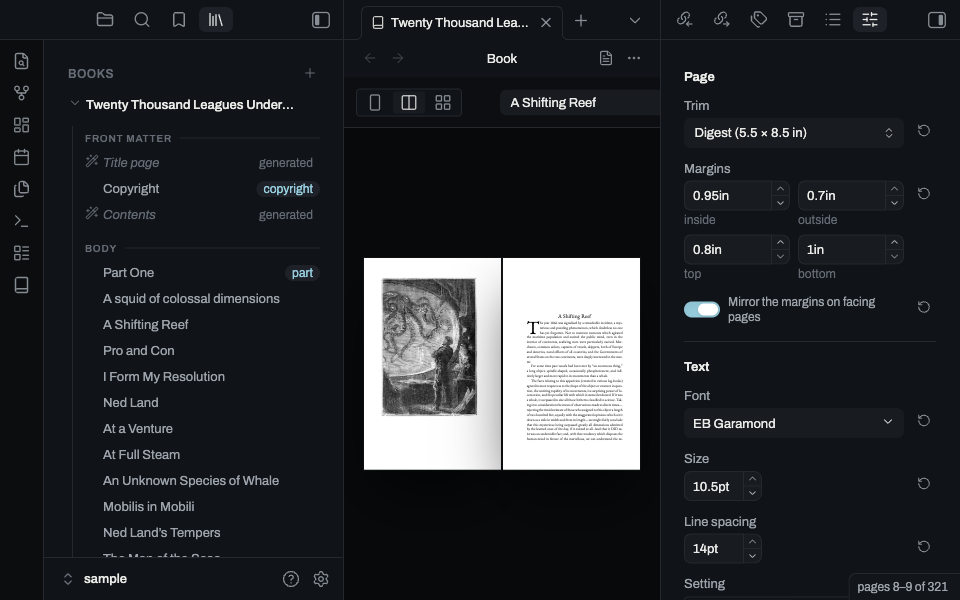
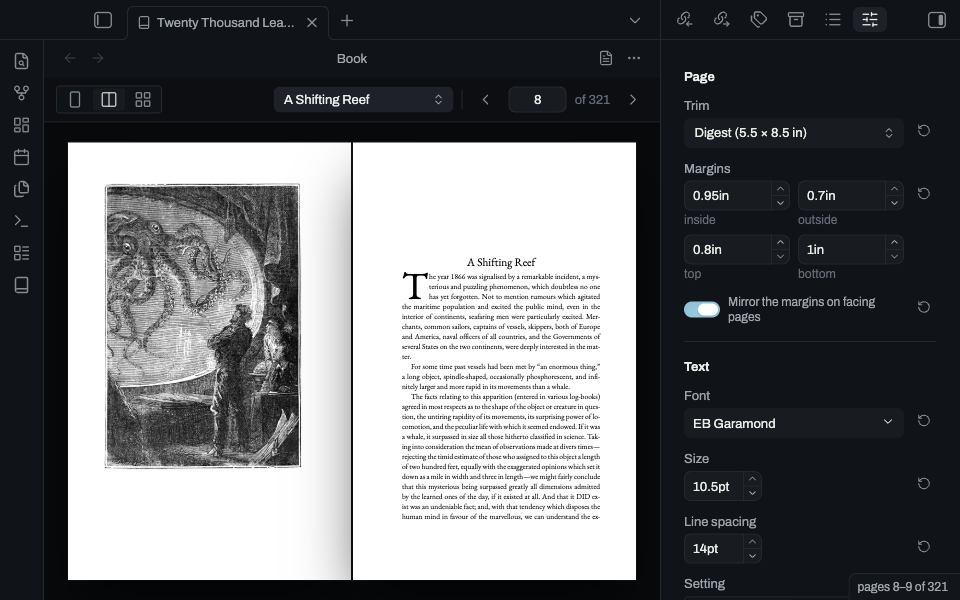
Give the spread the navigator's room in the narrowest window
The navigator and the design panel together left the spread too little
to read at 960. The narrowest picture puts the navigator away, the way
an author narrowing a window does.

Claude-Session: https://claude.ai/code/session_012Umm3T555EYpwmPfavdmxj

diff --git a/e2e/shots.spec.ts b/e2e/shots.spec.ts
@@ -27,6 +27,14 @@ const SCHEMES: Scheme[] = ["dark", "light"];
  */
 const WIDTHS = [1440, 1200, 960];
 
+/**
+ * The narrowest of them, where the navigator and the design panel
+ * together leave the spread too little room to read. The navigator
+ * comes off the picture there, the way an author narrowing a window
+ * puts it away.
+ */
+const NARROW = Math.min(...WIDTHS);
+
 /** The shape of the window, which is what turns a width into a height. */
 const SHAPE = 5 / 8;
 
@@ -156,12 +164,16 @@ test("the landing picture is the whole window, in both schemes, at three widths"
     await site.paint(scheme);
     for (const width of WIDTHS) {
       await sized(site, width, Math.round(width * SHAPE));
+      const shelf = width > NARROW;
+      if (shelf) await site.navigator.reveal();
+      else await site.obsidian.collapse("left");
       await settled(site.book);
 
       // The navigator on the left, the spread in the middle and the
       // design panel on the right, which is the window the artboard
-      // draws.
-      await expect(site.navigator.pane).toBeVisible();
+      // draws. The narrowest window gives the navigator's room to the
+      // spread.
+      await expect(site.navigator.pane).toBeVisible({ visible: shelf });
       await expect(site.panel.panel).toBeVisible();
       await expect(site.book.sheets).toHaveCount(2);
 
